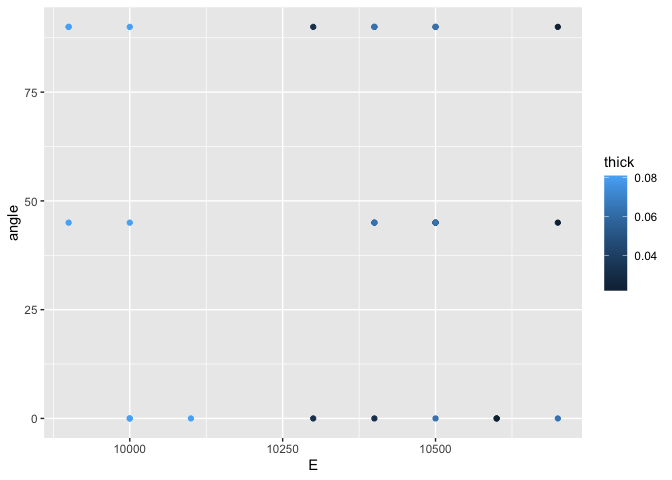
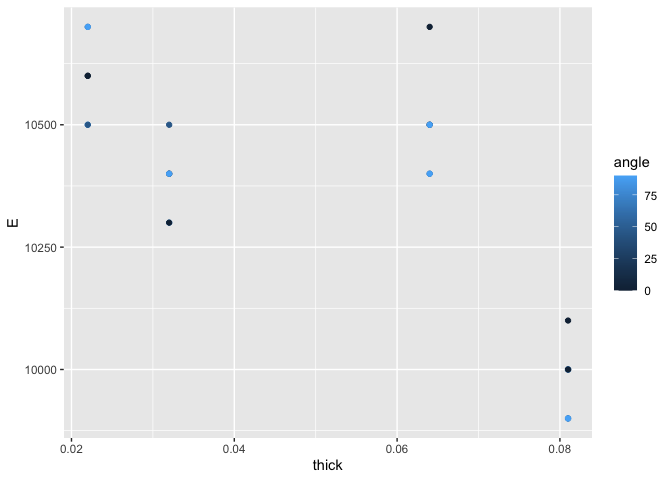
resubmission challenge 03

diff --git a/challenges/c03-stang-assignment.md b/challenges/c03-stang-assignment.md
@@ -266,6 +266,12 @@ summary(df_stang)
     ##  3rd Qu.: 0.3290   3rd Qu.:10500   3rd Qu.:0.3230                     
     ##  Max.   : 0.3310   Max.   :10700   Max.   :0.3300
 
+``` r
+unique(df_stang_long$thick)
+```
+
+    ## [1] 0.022 0.032 0.064 0.081
+
 **Observations**:
 
 - Is there “one true value” for the material properties of Aluminum?
@@ -273,8 +279,8 @@ summary(df_stang)
     are many factors that can change such as the alloy compound, the
     heat level when tempering the metal, etc.
 - How many aluminum alloys are in this dataset? How do you know?
-  - There is only one alloy present in this set which we can see is
-    defined as al_24st in the data set.
+  - There is only one alloy present in this set which we can see when
+    calling the unique function on the alloy column of the data set.
 - What angles were tested?
   - 0, 45, 90.
 - What thicknesses were tested?
@@ -292,7 +298,7 @@ summary(df_stang)
 ## TASK: Investigate your question from q1 here
 df_stang_long %>% 
   ggplot() +
-  geom_point(aes(x=E, y=angle, color = thick))
+  geom_point(aes(y=E, x=thick, color = angle))
 ```
 
 ![](c03-stang-assignment_files/figure-gfm/q3-task-1.png)<!-- -->
